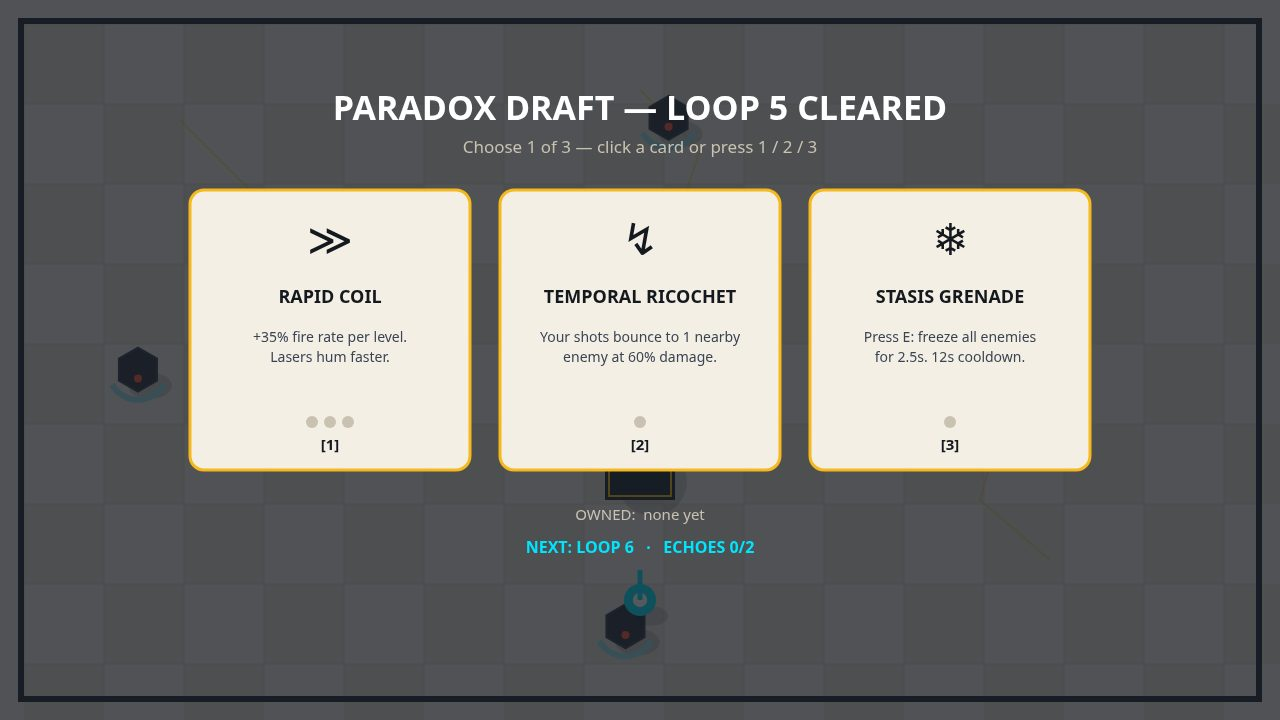
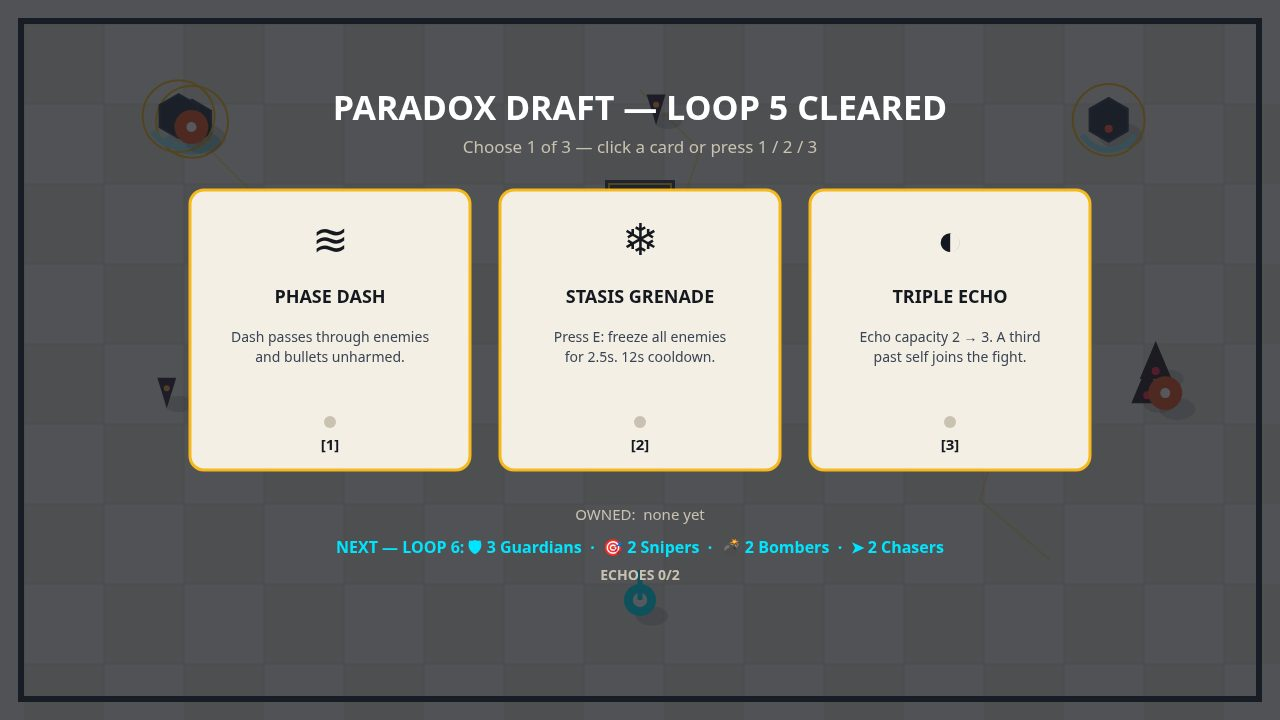
Pass 2: draft every loop, visible boss phases, next-loop preview, restaged cover

diff --git a/game/src/ui/DiegeticHUDRenderer.js b/game/src/ui/DiegeticHUDRenderer.js
@@ -236,6 +236,16 @@ function drawEnemies(ctx, state) {
         ctx.strokeStyle = COLOURS.gold; ctx.lineWidth = 2;
         ctx.beginPath(); ctx.arc(e.x, e.y, R + 14, 0, Math.PI * 2); ctx.stroke();
       }
+      // Warden summon telegraph: gold warning markers at the two spawn
+      // points + a callout, for the 1s before the snipers actually arrive.
+      if (e.type === 'warden' && e.summonWarnT > 0) {
+        const pulse = 0.5 + 0.4 * Math.sin(state.time * 12);
+        ctx.strokeStyle = 'rgba(245,184,29,' + pulse + ')'; ctx.lineWidth = 3;
+        for (const dx of [-120, 120]) {
+          ctx.beginPath(); ctx.arc(e.x + dx, e.y + 60, 16 + 4 * Math.sin(state.time * 12), 0, Math.PI * 2); ctx.stroke();
+        }
+        text(ctx, '⚠ SUMMONING SNIPERS…', e.x, e.y - e.radius - 34, 'bold 16px system-ui, sans-serif', COLOURS.gold, 'center');
+      }
     } else if (e.type === 'sniper') {
       ctx.fillStyle = flash ? '#FFFFFF' : COLOURS.sniper;
       ctx.beginPath();
@@ -379,6 +389,19 @@ function drawPlayHUD(ctx, state, input) {
     ctx.fillRect(440, 122, 400, 10);
     ctx.fillStyle = COLOURS.crimson;
     ctx.fillRect(440, 122, 400 * clamp(state.boss.hp / state.boss.maxHp, 0, 1), 10);
+    // Phase pips: segment dividers on the bar + a PHASE label, so the
+    // boss's structure is visible at a glance. Warden has 2 phases,
+    // Chronarch 3; a pip fills gold once its phase boundary is passed.
+    const phases = state.boss.type === 'chronarch' ? 3 : 2;
+    const cur = state.boss.phase || 1;
+    for (let i = 1; i < phases; i++) {
+      const px = 440 + (400 * i) / phases;
+      ctx.fillStyle = cur > i ? COLOURS.gold : 'rgba(22,28,37,0.9)';
+      ctx.beginPath(); ctx.arc(px, 127, 6, 0, Math.PI * 2); ctx.fill();
+      ctx.strokeStyle = COLOURS.gold; ctx.lineWidth = 2;
+      ctx.beginPath(); ctx.arc(px, 127, 6, 0, Math.PI * 2); ctx.stroke();
+    }
+    text(ctx, 'PHASE ' + ['I', 'II', 'III'][cur - 1], 850, 127, 'bold 13px system-ui, sans-serif', COLOURS.gold, 'left');
   }
   // Minimap, top-right.
   const mx = 1096, my = 24, mw = 160, mh = 100;
@@ -500,7 +523,7 @@ function drawTitle(ctx, state, input) {
     'SHIFT / SPACE — dash (brief invulnerability)     ·     Q / R — rewind early',
     'E — Stasis Grenade (once unlocked)     ·     P — pause     ·     M — mute',
     'Guardians block shots from the FRONT — let an echo distract them, then backstab.',
-    'Clear a loop to draft 1 of 3 upgrades. Beat THE CHRONARCH on Loop 10 to win.',
+    'Every loop ends in a draft: pick 1 of 3 upgrades. Beat THE CHRONARCH on Loop 10 to win.',
   ];
   how.forEach((h, i) => text(ctx, h, 190, 328 + i * 21, '14px system-ui, sans-serif', '#EDEAE2', 'left'));
   text(ctx, 'MEET THE ENEMY', 190, 442, 'bold 16px system-ui, sans-serif', COLOURS.gold, 'left');
@@ -537,8 +560,18 @@ function drawTitle(ctx, state, input) {
 function drawDraft(ctx, state, input) {
   ctx.fillStyle = 'rgba(20,24,31,0.72)';
   ctx.fillRect(0, 0, W, H);
-  text(ctx, 'PARADOX DRAFT — LOOP ' + (state.loop - 1) + ' CLEARED', 640, 110, 'bold 34px system-ui, sans-serif', '#FFFFFF', 'center');
-  text(ctx, 'Choose 1 of 3 — click a card or press 1 / 2 / 3', 640, 148, '17px system-ui, sans-serif', '#C9C2B2', 'center');
+  // The title names the draft kind: a timeout rewind is a FRAYED draft.
+  const dk = state.draftKind || 'clear';
+  const dTitle = dk === 'timeout'
+    ? 'FRAYED DRAFT — LOOP ' + (state.loop - 1) + ' TIMED OUT'
+    : 'PARADOX DRAFT — LOOP ' + (state.loop - 1) + (dk === 'manual' ? ' REWOUND EARLY' : ' CLEARED');
+  text(ctx, dTitle, 640, 110, 'bold 34px system-ui, sans-serif', dk === 'timeout' ? COLOURS.crimson : '#FFFFFF', 'center');
+  text(ctx, dk === 'timeout'
+    ? 'The timeline frayed — extra Chasers wait next loop. Choose 1 of 3 — click a card or press 1 / 2 / 3'
+    : 'Choose 1 of 3 — click a card or press 1 / 2 / 3', 640, 148, '17px system-ui, sans-serif', '#C9C2B2', 'center');
+  if (state.surgePending) {
+    text(ctx, '⚡ PARADOX SURGE banked — +1 ECHO SLOT this loop', 640, 174, 'bold 16px system-ui, sans-serif', COLOURS.gold, 'center');
+  }
   state.pendingOffers.forEach((u, i) => {
     const x = 190 + i * 310, y = 190, w = 280, h = 280;
     const lvl = state.upgradeLevels[u.id] || 0;
@@ -570,8 +603,24 @@ function drawDraft(ctx, state, input) {
     return u ? u.name : id.toUpperCase();
   }).join('  ·  ') : 'none yet';
   text(ctx, 'OWNED:  ' + owned, 640, 516, '15px system-ui, sans-serif', '#C9C2B2', 'center');
-  const next = state.loop === 5 ? 'NEXT: LOOP 5 — THE WARDEN' : state.loop === 10 ? 'NEXT: LOOP 10 — THE CHRONARCH' : 'NEXT: LOOP ' + state.loop;
-  text(ctx, next + '   ·   ECHOES ' + state.echoes.length + '/' + echoSlots(state), 640, 548, 'bold 16px system-ui, sans-serif', COLOURS.cyan, 'center');
+  // NEXT-LOOP PREVIEW (Pass 2): finishRewind already spawned the next wave
+  // before showing the draft, so counting state.enemies IS the exact
+  // composition the player is about to face — no separate estimate to drift.
+  const counts = {};
+  for (const e of state.enemies) counts[e.type] = (counts[e.type] || 0) + 1;
+  const order = ['warden', 'chronarch', 'guardian', 'sniper', 'bomber', 'chaser', 'splitter', 'phantom'];
+  const icons = { guardian: '🛡', sniper: '🎯', bomber: '💣', chaser: '➤', splitter: '✦', phantom: '👻', warden: '♛', chronarch: '🕐' };
+  const names = { guardian: ['Guardian', 'Guardians'], sniper: ['Sniper', 'Snipers'], bomber: ['Bomber', 'Bombers'], chaser: ['Chaser', 'Chasers'], splitter: ['Splitter', 'Splitters'], phantom: ['Stolen Echo', 'Stolen Echoes'], warden: ['THE WARDEN', 'THE WARDEN'], chronarch: ['THE CHRONARCH', 'THE CHRONARCH'] };
+  let prev = 'NEXT — LOOP ' + state.loop + ': ';
+  let first = true;
+  for (const t of order) {
+    if (!counts[t]) continue;
+    prev += (first ? '' : '  ·  ') + icons[t] + ' ' + counts[t] + ' ' + names[t][counts[t] > 1 ? 1 : 0];
+    first = false;
+  }
+  if (first) prev += '— arena clear —';
+  text(ctx, prev, 640, 548, 'bold 16px system-ui, sans-serif', COLOURS.cyan, 'center');
+  text(ctx, 'ECHOES ' + state.echoes.length + '/' + echoSlots(state), 640, 576, 'bold 14px system-ui, sans-serif', '#C9C2B2', 'center');
 }
 
 // ---- Summary ----

diff --git a/game/src/core/GameLoopEngine.js b/game/src/core/GameLoopEngine.js
@@ -47,7 +47,7 @@ export function newRun(difficulty, seed) {
     enemies: [], bolts: [], particles: [], floats: [], rifts: [], shockwaves: [],
     pillars: [], upgradesOwned: [], upgradeLevels: {},
     upgradeValues: upgradeValues({}),
-    pendingOffers: [], recording: [], recorder: createRecorder(),
+    pendingOffers: [], draftKind: 'clear', recording: [], recorder: createRecorder(),
     rewindT: 0, rewindKind: 'timeout', deathT: 0,
     boss: null, bossDefeated: false,
     perLoop: [], loopKills: 0, loopScore: 0, waveTotal: 0,
@@ -175,17 +175,32 @@ function finishRewind(state) {
   layoutPillars(state);
   spawnWave(state, state.rewindKind !== 'clear');
   if (state.loop > MAX_LOOPS) { state.loop = MAX_LOOPS; }
-  if (cleared && state.loop <= MAX_LOOPS) {
-    state.pendingOffers = rollOffers(state);
-    state.screen = 'draft';
-    state.banner = { txt: 'LOOP ' + state.loop + ' INCOMING', sub: 'Choose a paradox upgrade', ttl: 2.2 };
+  // DRAFT EVERY LOOP (Pass 2): a draft follows EVERY rewind, not just a
+  // clear. A timeout rewind is a FRAYED draft — the fray penalty (extra
+  // Chasers next loop) still applies; a clear or manual rewind is a clean
+  // draft. The draft pauses the action; the next loop starts on pick.
+  // (If the upgrade pool is ever exhausted there is nothing to draft:
+  // play on instead of soft-locking on an empty draft screen.)
+  if (state.loop <= MAX_LOOPS) {
+    const offers = rollOffers(state);
+    if (offers.length) {
+      state.pendingOffers = offers;
+      state.draftKind = cleared ? 'clear' : state.rewindKind;
+      state.screen = 'draft';
+      state.banner = { txt: 'LOOP ' + state.loop + ' INCOMING', sub: 'Choose a paradox upgrade', ttl: 2.2 };
+    } else {
+      state.screen = 'play';
+      state.banner = { txt: 'LOOP ' + state.loop, sub: '', ttl: 1.6 };
+    }
   } else {
     state.screen = 'play';
     const name = state.loop === 5 ? ' — THE WARDEN' : state.loop === 10 ? ' — THE CHRONARCH' : '';
     state.banner = { txt: 'LOOP ' + state.loop + name, sub: cleared ? '' : 'The unfinished fight continues', ttl: 2.4 };
   }
   // A surge overrides the loop banner: the player must SEE the payoff.
-  if (state.surgePending) {
+  // With a draft in between, the banner waits for the pick — the draft
+  // screen never draws banners, so the surge is announced on resume.
+  if (state.surgePending && state.screen !== 'draft') {
     state.surgePending = false;
     state.banner = { txt: 'PARADOX SURGE! +1 ECHO SLOT', sub: 'Weave spent — ' + echoSlots(state) + ' echo slots this loop', ttl: 2.8 };
     addFloat(state, 640, 300, '+1 ECHO SLOT', '#F5B81D');
@@ -283,6 +298,8 @@ function drainEvents(state, audio) {
       case 'shieldBreak': state.shieldBreaks++; state.slowmoT = Math.max(state.slowmoT, 0.08); audio.sfx('shieldBreak'); break;
       case 'crossfire': audio.sfx('crossfire'); break;
       case 'surge': audio.sfx('upgrade'); break;
+      case 'bossPhase': audio.sfx('upgrade'); break;
+      case 'summonWarn': audio.sfx('sniperTele'); break;
       case 'kill':
         // Kill beat: a brief micro-pulse, gated by a cooldown — a kill must
         // feel like a hit, never a freeze. 0.03 sim-s is ~0.07s wall at 45%
@@ -400,7 +417,13 @@ export function step(state, input, audio, dt) {
       applyUpgrade(state, id);
       state.pendingOffers = [];
       state.screen = 'play';
-      state.banner = { txt: 'LOOP ' + state.loop, sub: '', ttl: 1.6 };
+      if (state.surgePending) {
+        state.surgePending = false;
+        state.banner = { txt: 'PARADOX SURGE! +1 ECHO SLOT', sub: 'Weave spent — ' + echoSlots(state) + ' echo slots this loop', ttl: 2.8 };
+        addFloat(state, 640, 300, '+1 ECHO SLOT', '#F5B81D');
+      } else {
+        state.banner = { txt: 'LOOP ' + state.loop, sub: '', ttl: 1.6 };
+      }
     }
     updateFx(state, dt);
     drainEvents(state, audio);

diff --git a/game/src/systems/ArenaDirector.js b/game/src/systems/ArenaDirector.js
@@ -31,7 +31,7 @@ export function makeEnemy(state, type, x, y, elite) {
     elite: !!elite, staggerT: 0, flashT: 0, shieldAngle: Math.PI / 2,
     shieldUp: true, shieldDownT: 0,
     contactCd: 0, teleT: 0, teleState: 0, teleAngle: 0, fireCd: 1 + state.rng() * 1.5,
-    waveT: 0, summoned: false, phase: 1, stoleEchoes: false, splitSpawned: false,
+    waveT: 0, summoned: false, summonWarned: false, summonWarnT: 0, phase: 1, stoleEchoes: false, splitSpawned: false,
     lastPlayerHit: 0, lastEchoHit: 0, crossUsed: 0,
     targetEcho: null, distractT: 0, isMini: false,
   };
@@ -163,12 +163,27 @@ export function updateEnemies(state, dt) {
           e.waveT = 0;
           spawnShockwave(state, e.x, e.y);
         }
-        if (e.type === 'warden' && !e.summoned && e.hp < e.maxHp * 0.5) {
-          e.summoned = true;
-          state.enemies.push(makeEnemy(state, 'sniper', e.x - 120, e.y + 60, false));
-          state.enemies.push(makeEnemy(state, 'sniper', e.x + 120, e.y + 60, false));
-          state.events.push({ type: 'summon', x: e.x, y: e.y });
-          state.waveTotal += 2;
+        // WARDEN PHASE II — telegraphed summon: at 55% HP the Warden starts
+        // summoning (1s of gold warning markers + callout) and the snipers
+        // arrive when the warning ends. The phase flips when they land.
+        if (e.type === 'warden' && !e.summoned) {
+          if (!e.summonWarned && e.hp < e.maxHp * 0.55) {
+            e.summonWarned = true;
+            e.summonWarnT = 1.0;
+            state.events.push({ type: 'summonWarn', x: e.x, y: e.y });
+          }
+          if (e.summonWarned && e.summonWarnT > 0) {
+            e.summonWarnT -= dt;
+            if (e.summonWarnT <= 0) {
+              e.summoned = true;
+              e.phase = 2;
+              state.enemies.push(makeEnemy(state, 'sniper', e.x - 120, e.y + 60, false));
+              state.enemies.push(makeEnemy(state, 'sniper', e.x + 120, e.y + 60, false));
+              state.events.push({ type: 'summon', x: e.x, y: e.y });
+              state.waveTotal += 2;
+              state.banner = { txt: 'THE WARDEN — PHASE II — SNIPER SUMMON', sub: 'Two Chrono Snipers join the fight', ttl: 2.4 };
+            }
+          }
         }
         if (e.type === 'chronarch') {
           const frac = e.hp / e.maxHp;
@@ -176,7 +191,13 @@ export function updateEnemies(state, dt) {
           if (newPhase !== e.phase) {
             e.phase = newPhase;
             state.events.push({ type: 'bossPhase', x: e.x, y: e.y, phase: newPhase });
-            state.banner = { txt: 'THE CHRONARCH — PHASE ' + newPhase, sub: newPhase === 2 ? 'It calls its snipers' : 'IT STEALS YOUR ECHOES!', ttl: 2.4 };
+            // Phase banner names the ability, so the phase change reads at a
+            // glance: Phase II calls snipers, Phase III steals your echoes.
+            state.banner = {
+              txt: 'THE CHRONARCH — PHASE ' + (newPhase === 2 ? 'II — SNIPER CALL' : 'III — ECHO THEFT'),
+              sub: newPhase === 2 ? 'It summons two Chrono Snipers' : 'Your echoes turn against you!',
+              ttl: 2.4,
+            };
             if (newPhase === 2 && !e.summoned) {
               e.summoned = true;
               state.enemies.push(makeEnemy(state, 'sniper', e.x - 140, e.y + 70, false));

diff --git a/game/src/main.js b/game/src/main.js
@@ -155,6 +155,7 @@ window.__chronoweave = {
   setBest(n) { state.best = n; try { window.localStorage.setItem('chronoweave-best', String(n)); } catch (e) { /* ignore */ } },
   forceDraft() {
     state.pendingOffers = rollOffers(state);
+    state.draftKind = 'clear';
     state.screen = 'draft';
   },
   forceWin() {
@@ -185,7 +186,10 @@ function applyShotPreset() {
   } else if (shot === 'upgrade') {
     window.__chronoweave.setBest(15840);
     startRun(state, 'steady', 7);
-    state.loop = 6; state.score = 8300;
+    // Stage a real Loop 6 draft: forceLoop spawns the Loop 6 wave first, so
+    // the NEXT-LOOP preview on the draft screen counts the actual wave.
+    window.__chronoweave.forceLoop(6);
+    state.score = 8300;
     window.__chronoweave.forceDraft();
   } else if (shot === 'win') {
     window.__chronoweave.setBest(15840);
